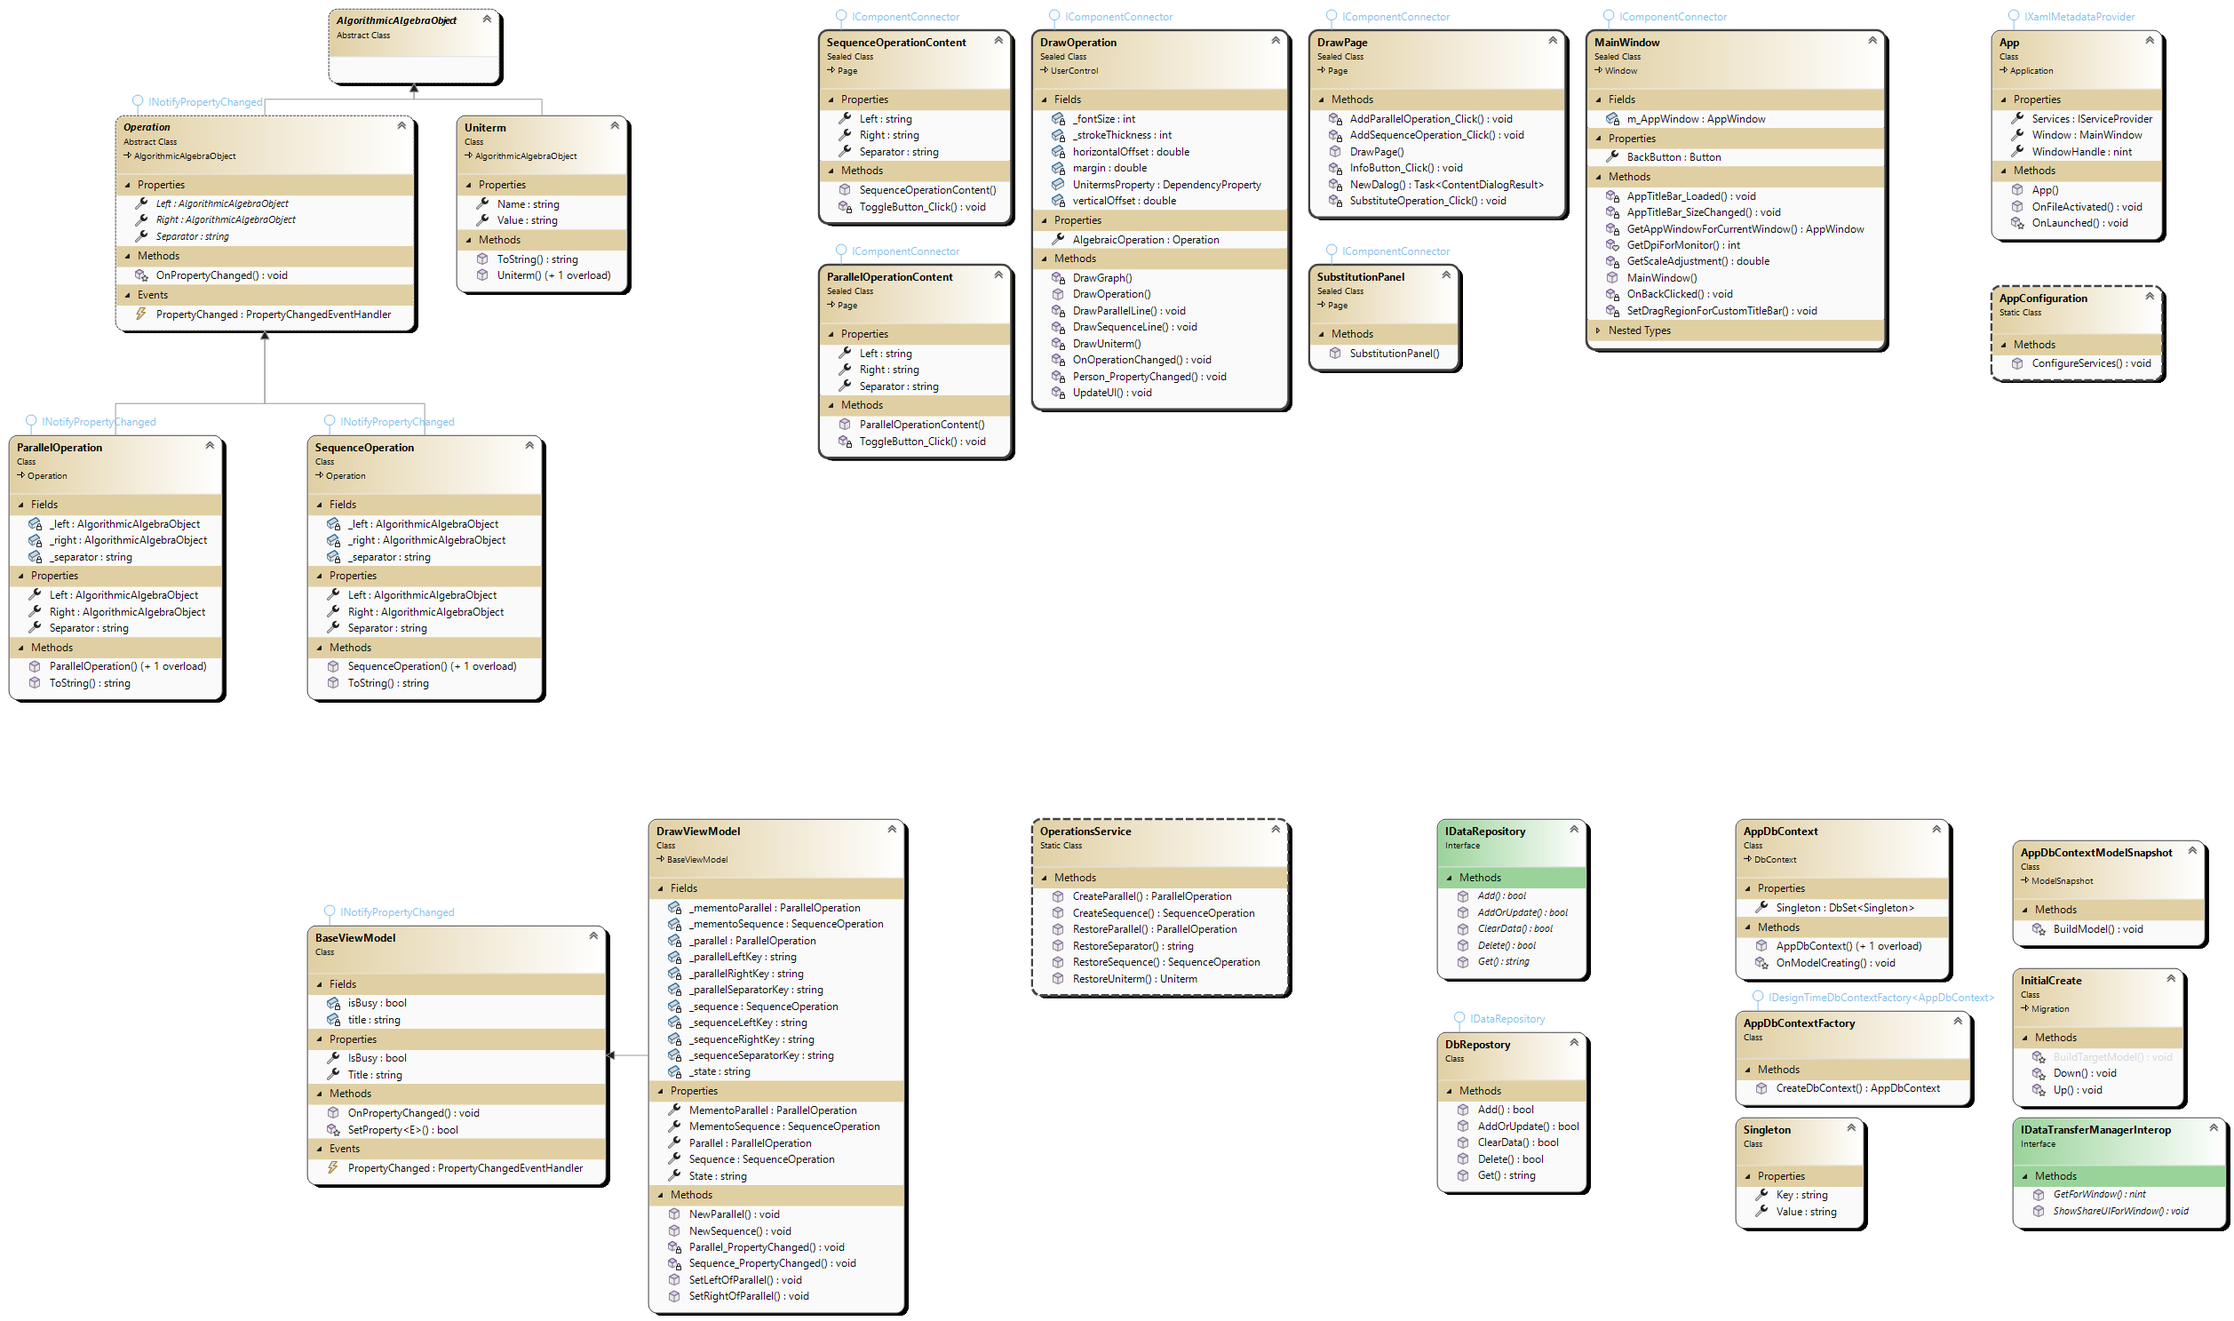
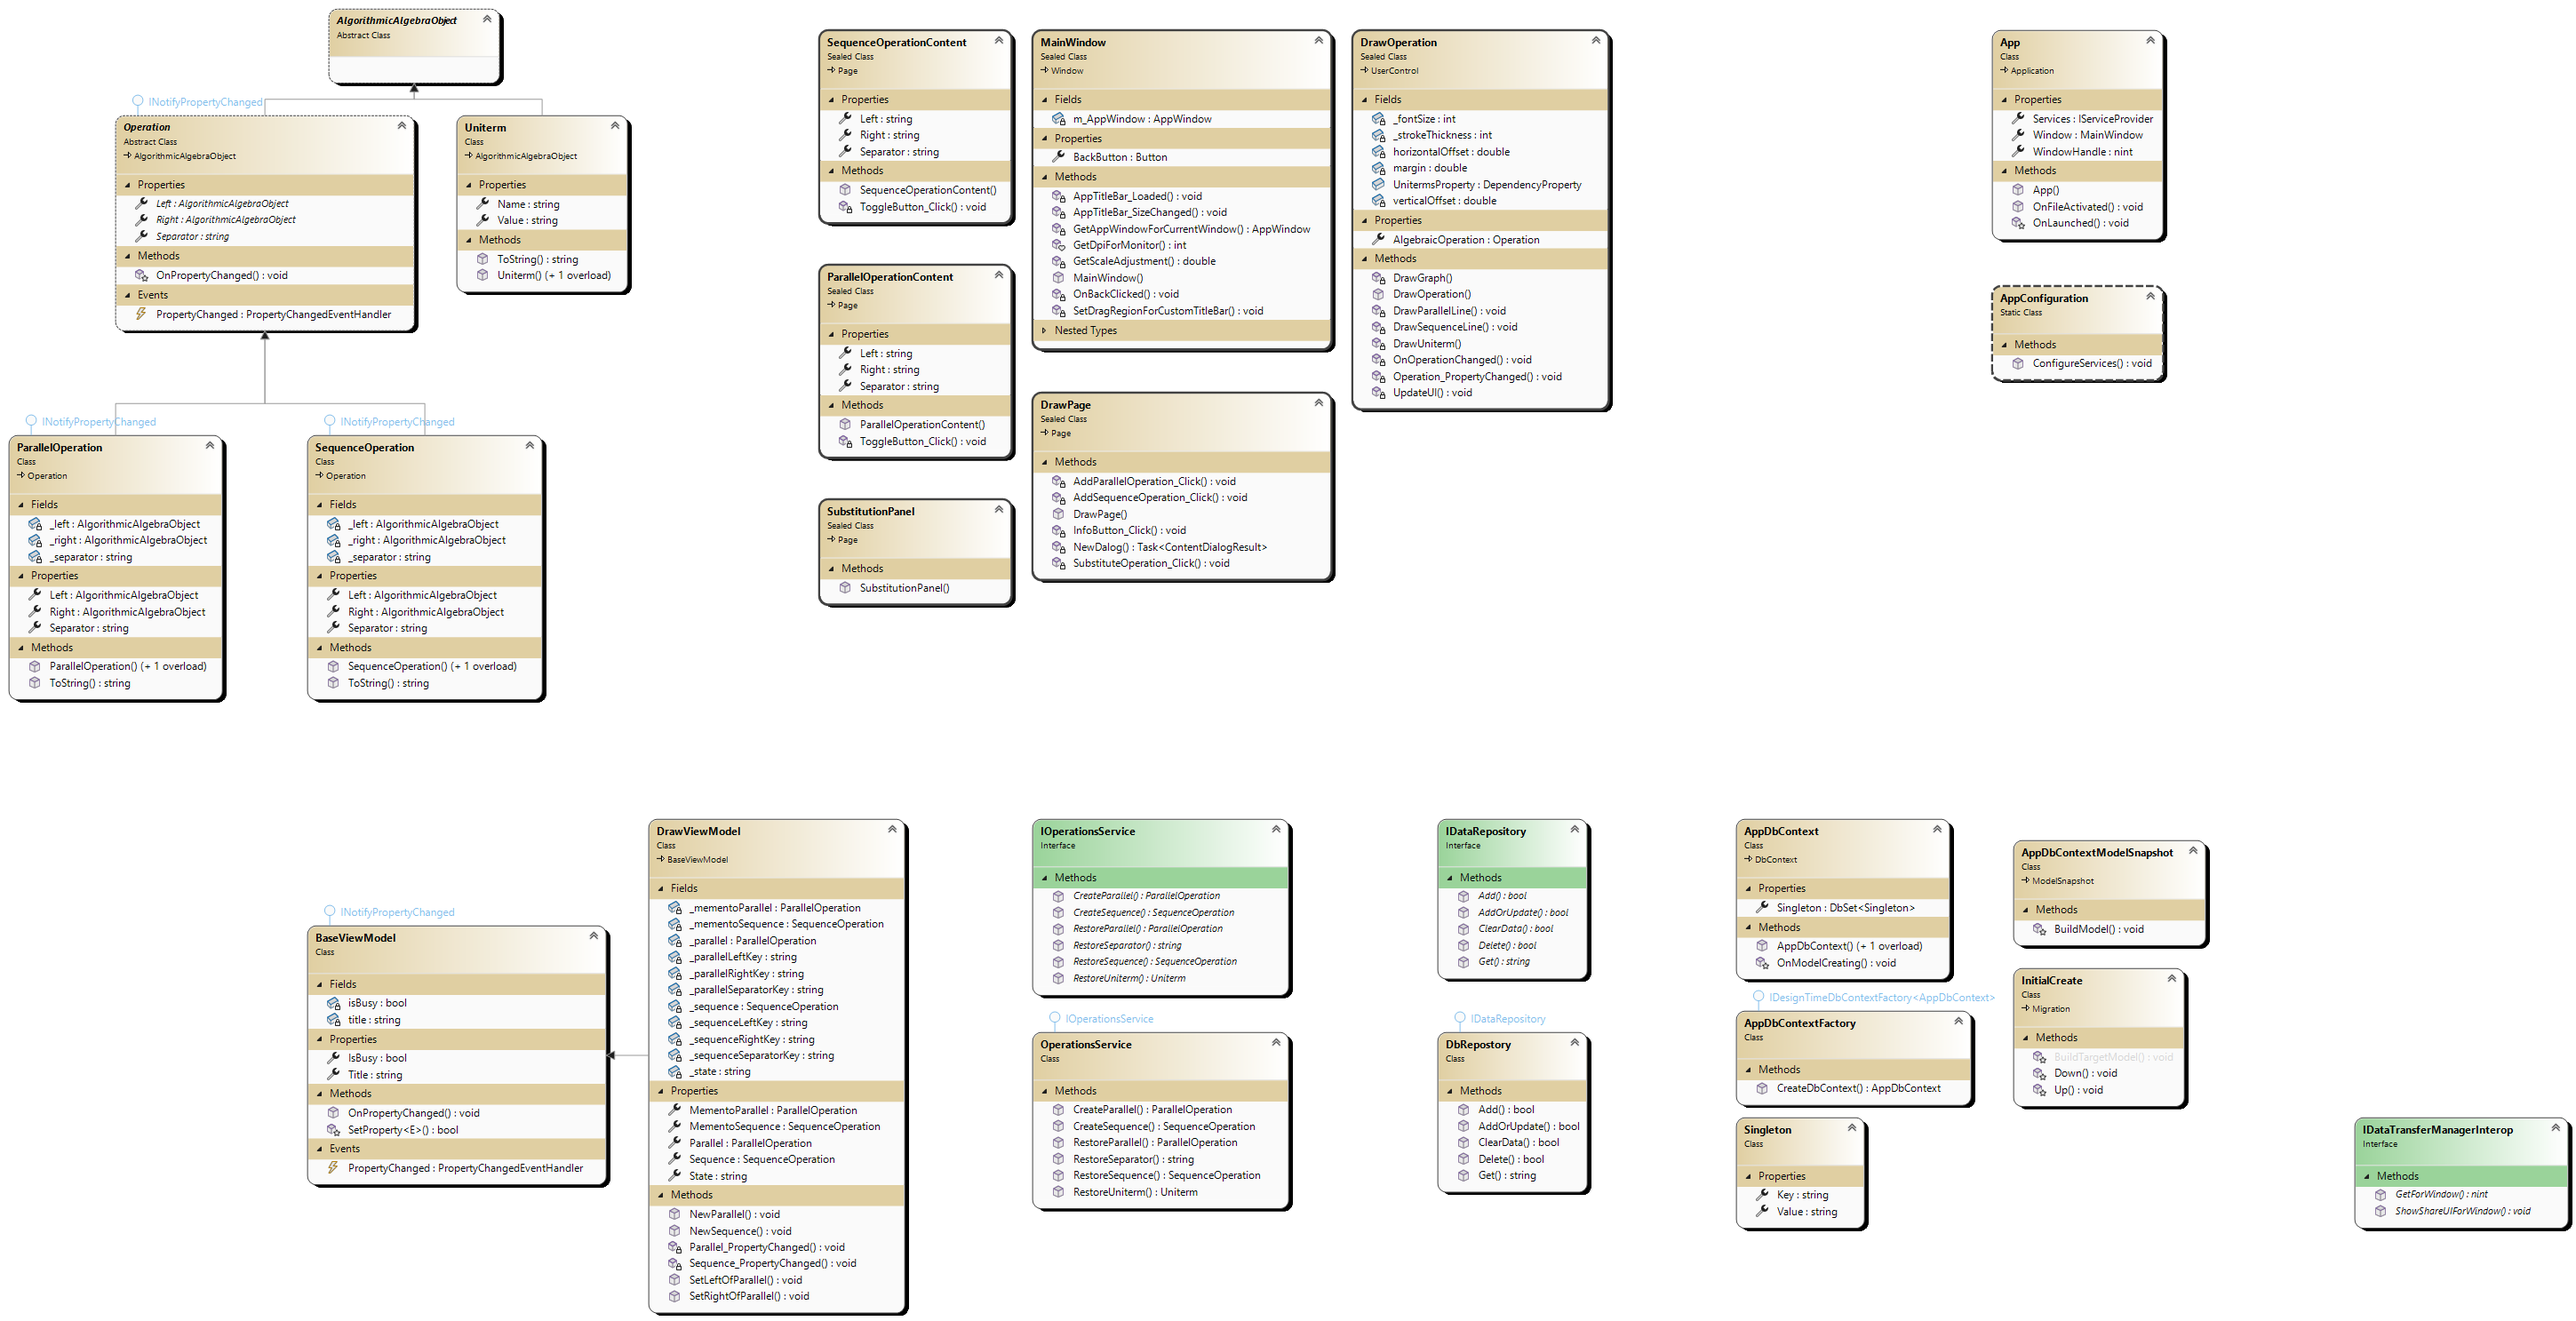
DI for service

diff --git a/Uniterms/MainWindow.xaml b/Uniterms/MainWindow.xaml
@@ -29,7 +29,7 @@
                 <SymbolIcon Symbol="Back" />
             </AppBarButton>
             <TextBlock x:Name="TitleTextBlock" 
-               Text="Photo Lab" 
+               Text="Uniterms" 
                Style="{StaticResource CaptionTextBlockStyle}"
                Grid.Column="2"
                VerticalAlignment="Center"

diff --git a/Uniterms/ViewModels/DrawViewModel.cs b/Uniterms/ViewModels/DrawViewModel.cs
@@ -1,5 +1,7 @@
-using System.ComponentModel;
+using Microsoft.Extensions.DependencyInjection;
+using System.ComponentModel;
 using Uniterms.Models;
+using Uniterms.Repositories;
 using Uniterms.Services;
 
 namespace Uniterms.ViewModels
@@ -85,8 +87,10 @@ namespace Uniterms.ViewModels
             if (MementoSequence is null || Parallel is null)
                 return;
 
+            var service = App.Services.GetService<IOperationsService>();
+
             Parallel.Left = MementoSequence;
-            Parallel.Right = OperationsService.RestoreUniterm(_parallelRightKey);
+            Parallel.Right = service.RestoreUniterm(_parallelRightKey);
             Sequence = null;
 
         }
@@ -97,7 +101,9 @@ namespace Uniterms.ViewModels
             if (MementoSequence is null || Parallel is null)
                 return;
 
-            Parallel.Left = OperationsService.RestoreUniterm(_parallelLeftKey);
+            var service = App.Services.GetService<IOperationsService>();
+
+            Parallel.Left = service.RestoreUniterm(_parallelLeftKey);
             Parallel.Right = MementoSequence;
             Sequence = null;
 
@@ -110,9 +116,12 @@ namespace Uniterms.ViewModels
                 State = "Unitermy dla operacji zrównoleglania nie mogą być puste.";
                 return;
             }
-            Parallel = OperationsService.CreateParallel(_parallelLeftKey, left, _parallelRightKey, right, _parallelSeparatorKey, separator);
-            MementoParallel = OperationsService.RestoreParallel(_parallelLeftKey, _parallelRightKey, _parallelSeparatorKey);
-            Sequence = OperationsService.RestoreSequence(_sequenceLeftKey, _sequenceRightKey, _sequenceSeparatorKey);
+
+            var service = App.Services.GetService<IOperationsService>();
+
+            Parallel = service.CreateParallel(_parallelLeftKey, left, _parallelRightKey, right, _parallelSeparatorKey, separator);
+            MementoParallel = service.RestoreParallel(_parallelLeftKey, _parallelRightKey, _parallelSeparatorKey);
+            Sequence = service.RestoreSequence(_sequenceLeftKey, _sequenceRightKey, _sequenceSeparatorKey);
         }
 
         public void NewSequence(string left, string right, string separator)
@@ -122,9 +131,12 @@ namespace Uniterms.ViewModels
                 State = "Unitermy dla operacji sekwencjonowania nie mogą być puste.";
                 return;
             }
-            Sequence = OperationsService.CreateSequence(_sequenceLeftKey, left, _sequenceRightKey, right, _sequenceSeparatorKey, separator);
-            MementoSequence = OperationsService.RestoreSequence(_sequenceLeftKey, _sequenceRightKey, _sequenceSeparatorKey);
-            Parallel = OperationsService.RestoreParallel(_parallelLeftKey, _parallelRightKey, _parallelSeparatorKey);
+
+            var service = App.Services.GetService<IOperationsService>();
+
+            Sequence = service.CreateSequence(_sequenceLeftKey, left, _sequenceRightKey, right, _sequenceSeparatorKey, separator);
+            MementoSequence = service.RestoreSequence(_sequenceLeftKey, _sequenceRightKey, _sequenceSeparatorKey);
+            Parallel = service.RestoreParallel(_parallelLeftKey, _parallelRightKey, _parallelSeparatorKey);
         }
 
         private void Parallel_PropertyChanged(object sender, PropertyChangedEventArgs e)

diff --git a/Uniterms/Services/OperationsService.cs b/Uniterms/Services/OperationsService.cs
@@ -9,9 +9,9 @@ using Uniterms.Repositories;
 
 namespace Uniterms.Services
 {
-    public static class OperationsService
+    public class OperationsService : IOperationsService
     {
-        public static ParallelOperation CreateParallel(string leftUnitermKey, string leftUniterm, string rightUnitermKey, string rightUniterm, string separatorKey, string separator)
+        public ParallelOperation CreateParallel(string leftUnitermKey, string leftUniterm, string rightUnitermKey, string rightUniterm, string separatorKey, string separator)
         {
             var left = new Uniterm(leftUnitermKey, leftUniterm);
             var right = new Uniterm(rightUnitermKey, rightUniterm);
@@ -25,7 +25,7 @@ namespace Uniterms.Services
 
         }
 
-        public static  SequenceOperation CreateSequence(string leftUnitermKey, string leftUniterm, string rightUnitermKey, string rightUniterm, string separatorKey, string separator)
+        public  SequenceOperation CreateSequence(string leftUnitermKey, string leftUniterm, string rightUnitermKey, string rightUniterm, string separatorKey, string separator)
         {
             var left = new Uniterm(leftUnitermKey, leftUniterm);
             var right = new Uniterm(rightUnitermKey, rightUniterm);
@@ -38,7 +38,7 @@ namespace Uniterms.Services
             return new SequenceOperation(left, right, separator);
         }
 
-        public static ParallelOperation RestoreParallel(string leftUnitermKey, string rightUnitermKey, string separatorKey)
+        public ParallelOperation RestoreParallel(string leftUnitermKey, string rightUnitermKey, string separatorKey)
         {
             var left = RestoreUniterm(leftUnitermKey);
             var right = RestoreUniterm(rightUnitermKey);
@@ -50,7 +50,7 @@ namespace Uniterms.Services
             return new ParallelOperation(left, right, separator);
         }
 
-        public static SequenceOperation RestoreSequence(string leftUnitermKey, string rightUnitermKey, string separatorKey)
+        public SequenceOperation RestoreSequence(string leftUnitermKey, string rightUnitermKey, string separatorKey)
         {
             var left = RestoreUniterm(leftUnitermKey);
             var right = RestoreUniterm(rightUnitermKey);
@@ -62,7 +62,7 @@ namespace Uniterms.Services
             return new SequenceOperation(left, right, separator);
         }
 
-        public static Uniterm RestoreUniterm(string key)
+        public Uniterm RestoreUniterm(string key)
         {
             var repository = App.Services.GetService<IDataRepository>();
             var uniterm = repository.Get(key);
@@ -72,7 +72,7 @@ namespace Uniterms.Services
             return new Uniterm(key, uniterm);
         }
 
-        public static string RestoreSeparator(string key)
+        public string RestoreSeparator(string key)
         {
             var repository = App.Services.GetService<IDataRepository>();
             return repository.Get(key);

diff --git a/Uniterms/Services/IOperationsService.cs b/Uniterms/Services/IOperationsService.cs
@@ -1,0 +1,21 @@
+using Microsoft.Extensions.DependencyInjection;
+using System;
+using System.Collections.Generic;
+using System.Linq;
+using System.Text;
+using System.Threading.Tasks;
+using Uniterms.Models;
+using Uniterms.Repositories;
+
+namespace Uniterms.Services
+{
+    public interface IOperationsService
+    {
+        public ParallelOperation CreateParallel(string leftUnitermKey, string leftUniterm, string rightUnitermKey, string rightUniterm, string separatorKey, string separator);
+        public SequenceOperation CreateSequence(string leftUnitermKey, string leftUniterm, string rightUnitermKey, string rightUniterm, string separatorKey, string separator);
+        public  ParallelOperation RestoreParallel(string leftUnitermKey, string rightUnitermKey, string separatorKey);
+        public SequenceOperation RestoreSequence(string leftUnitermKey, string rightUnitermKey, string separatorKey);
+        public Uniterm RestoreUniterm(string key);
+        public string RestoreSeparator(string key);
+    }
+}

diff --git a/Uniterms/AppConfiguration.cs b/Uniterms/AppConfiguration.cs
@@ -5,6 +5,7 @@ using System.Linq;
 using System.Text;
 using System.Threading.Tasks;
 using Uniterms.Repositories;
+using Uniterms.Services;
 
 namespace Uniterms
 {
@@ -13,6 +14,7 @@ namespace Uniterms
         public static void ConfigureServices(IServiceCollection services)
         {
             services.AddSingleton<IDataRepository, DbRepostory>();
+            services.AddSingleton<IOperationsService, OperationsService>();
         }
     }
 }
